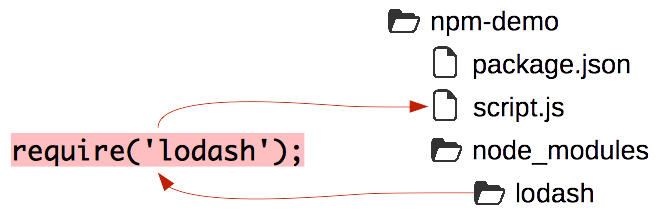
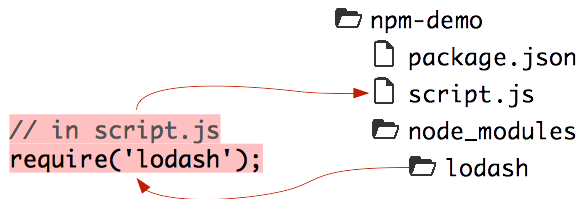
Npm: additional diagrams and explanations about require

Changed region(s): [[0.0, 0.5427, 0.9829, 1.0], [0.2765, 0.0302, 0.9829, 0.5729], [0.2457, 0.4523, 0.3379, 0.5427]]

diff --git a/subjects/npm/README.md b/subjects/npm/README.md
@@ -74,7 +74,7 @@ For operating systems:
 | Package manager                   | OS                   |
 | :---                              | :---                 |
 | Advanced Package Tool (apt)       | Debian, Ubuntu       |
-| Homebrew                          | Mac OS X             |
+| Homebrew (brew)                   | Mac OS X             |
 | Yellowdog Updater, Modified (yum) | RHEL, Fedora, CentOS |
 
 
@@ -434,8 +434,12 @@ They are installed in a **system directory** and are **global to your machine**
 
 <p class='center'><img src='images/npm-install-global.png' class='w70' /></p>
 
+<!-- slide-column -->
+
 Global packages provide **new commands** that you can use in your CLI.
 In this case, the `http-server` package is a simple command-line HTTP server:
+
+<!-- slide-column -->
 
 ```bash
 $> http-server
@@ -458,9 +462,21 @@ $> ls /usr/local/lib/node_modules
 http-server
 ```
 
+You *cannot* use `--save` with global packages.
+You **do not need to** since they are global to your machine and available anywhere in the CLI.
+However, if you **reset** your machine or Node.js installation, you will have to **reinstall** manually.
 
 
-### Common pitfall
+
+## Common mistakes
+
+<!-- slide-front-matter class: center, middle -->
+
+It happens.
+
+
+
+### Missing `package.json` file
 
 If you **forgot to add a `package.json` file** to your project,
 npm will still install your dependencies and log a warning that is **easy to miss**:
@@ -473,9 +489,80 @@ npm WARN `saveError` ENOENT: no such file or directory,
 └── lodash@4.17.4
 ```
 
+<p class='center'><img src='images/npm-missing-package.png' class='w80'></p>
 
 
-### More complex packages
+
+### Wrong directory
+
+Npm will not know if you are in the **wrong directory**.
+It will simply **install packages there**.
+Of course, you will **NOT** be able to `require()` them from your project:
+
+<p class='center'><img src='images/npm-install-wrong-dir.png' class='w80'></p>
+
+
+
+## The behavior of `require()`
+
+<!-- slide-front-matter class: center, middle -->
+
+
+
+### Requiring your own modules
+
+You can require your own Node.js scripts with **relative file paths**:
+
+<!-- slide-column -->
+
+<p class='center'><img src='images/require-relative-module.png' class='w100' /></p>
+
+<!-- slide-column -->
+
+<p class='center'><img src='images/require-parent-module.png' class='w100' /></p>
+
+<!-- slide-container -->
+
+Beware of **circular dependencies**.
+In this example, you should do one or the other, **not both**.
+
+
+
+### Requiring packages installed with npm
+
+You can require packages you installed with npm **by their name**:
+
+<p class='center'><img src='images/require-local-package.png' class='w60' /></p>
+
+#### Global packages installed with npm
+
+You **CANNOT** require packages you installed **globally** with npm.
+They provide **new commands** but cannot be used in code:
+
+<p class='center'><img src='images/require-global-package.png' class='w80' /></p>
+
+
+
+### Requiring core Node.js modules
+
+When you give **a name** to `require()`, it will also look for a **core Node.js modules** with that name:
+
+<p class='center'><img src='images/require-core-module.png' class='w70' /></p>
+
+
+
+### Require summary
+
+Statement                 | What is required
+:---                      | :---
+`require('./script')`     | The `script.js` file in the current directory (relative to the file using `require()`)
+`require('./dir/script')` | The `script.js` file in the `dir` directory (relative to the file using `require()`)
+`require('../script')`    | The `script.js` file in the parent directory (relative to the file using `require()`)
+`require('my-module')`    | The `my-module` npm package (if found in `node_modules` in the same directory *or any parent directory*)<br/>**OR**<br/>The core Node.js module with that name (if there is one)
+
+
+
+## More complex packages
 
 The npm registry has many packages, some small, some big.
 Let's install [express][express], a web application framework:
